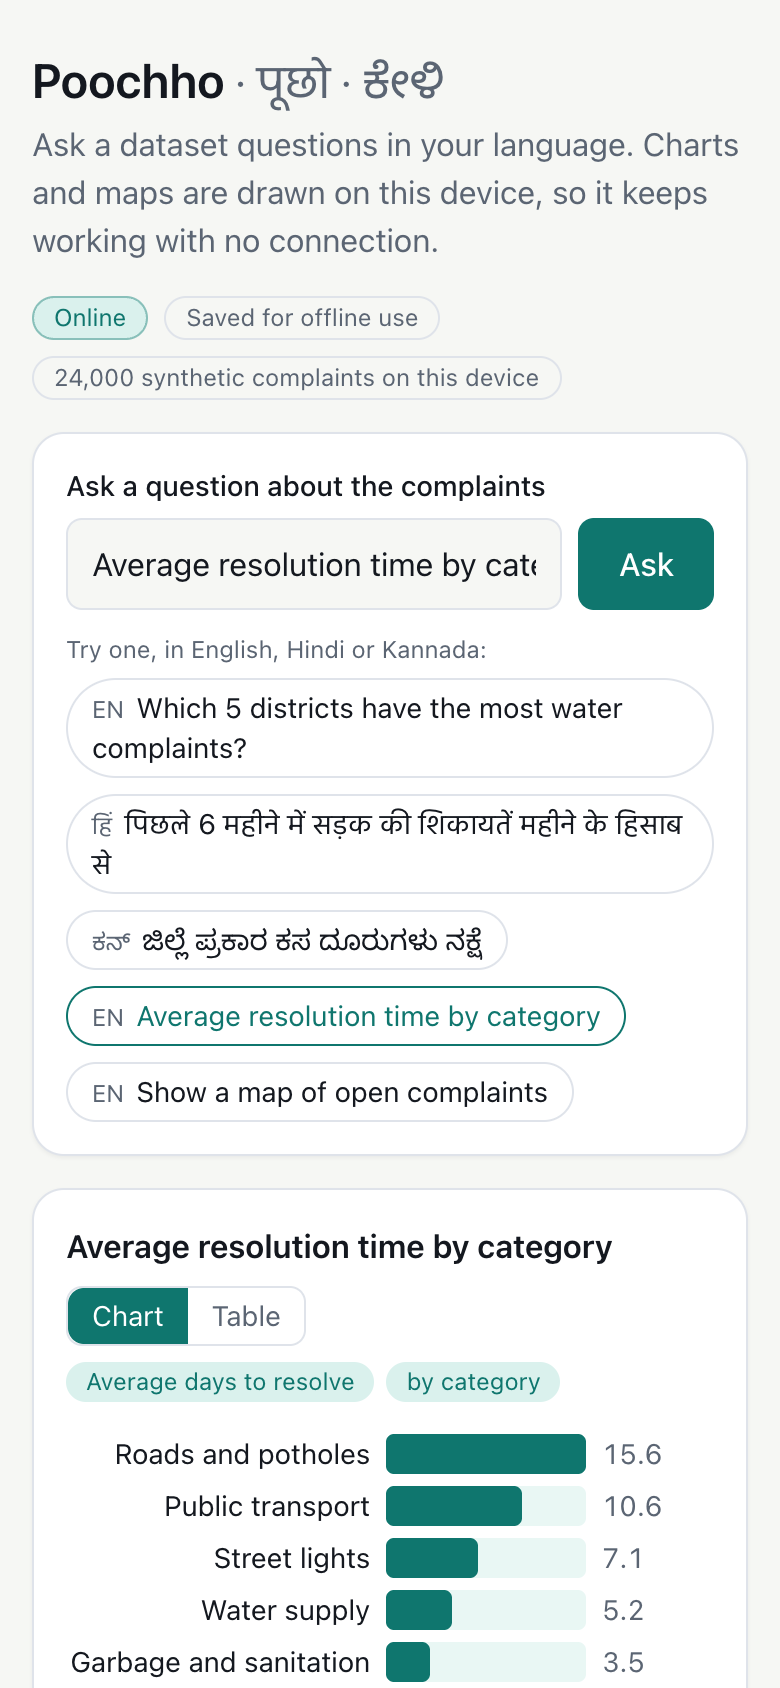
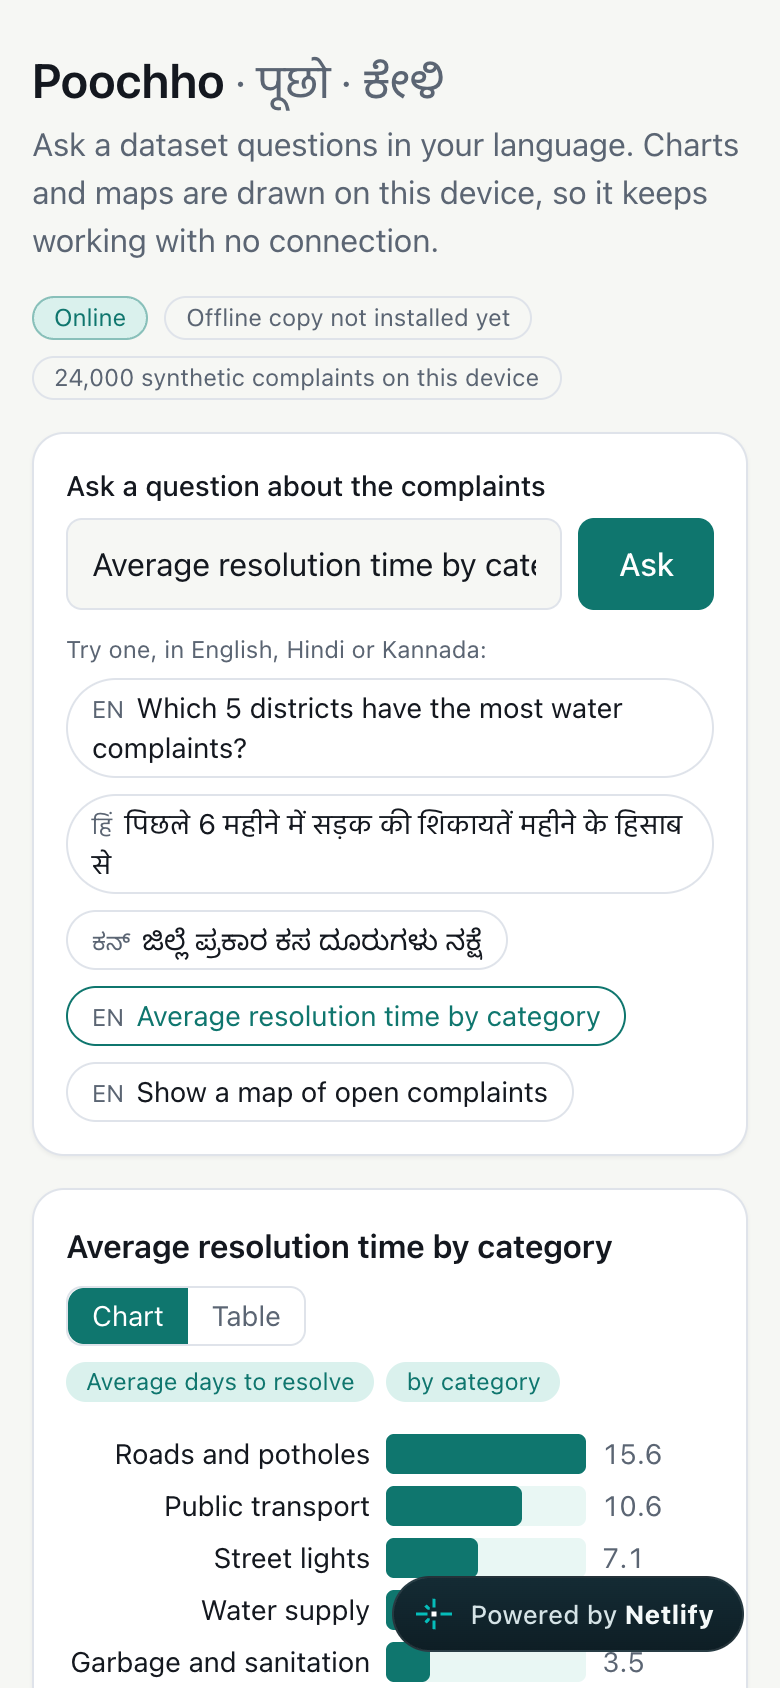
Serve manifest correctly, test the live site, report measured numbers
- netlify.toml: manifest content type, no-cache for the worker and shell
- e2e: ignore Netlify's injected script; can be pointed at the live site
- README: live link and numbers measured against the deployed site

Changed region(s): [[0.4923, 0.9242, 0.9538, 0.9858], [0.4615, 0.1848, 0.6462, 0.2156], [0.2462, 0.1848, 0.4308, 0.2156]]

diff --git a/README.md b/README.md
@@ -4,6 +4,10 @@ An offline-first PWA that answers questions about a dataset in English, Hindi or
 
 It is a proof of work for the kind of frontend described in Sarvam's "Frontend Engineer, Chanakya" posting: dashboards for enterprise users in constrained environments ("offline-first, low-bandwidth, limited hardware"), with a natural-language access layer and a geospatial view. It is not affiliated with Sarvam and the data is synthetic.
 
+## Live
+
+https://poochho-imamk8114.netlify.app
+
 ## Try it
 
 ```bash
@@ -12,6 +16,7 @@ npm run dev        # http://localhost:5188
 npm test           # 60 unit tests
 npm run build && npm run preview
 npm run e2e        # real-Chrome test of the offline behaviour (needs `preview` running)
+BASE_URL=https://poochho-imamk8114.netlify.app/ npm run e2e   # the same test against the live site
 ```
 
 Click any example. To use Sarvam, open Settings and paste an API key; it stays in the tab's session storage and is sent only to `api.sarvam.ai`.
@@ -39,13 +44,13 @@ question ──► saved plan on this device? ──yes──► run it
 
 ## Measured
 
-From `npm run e2e`, in headless Chrome against the production build. Chrome's "slow 4G" preset is 150 ms round trip, 1.6 Mbit/s down.
+From `npm run e2e` in headless Chrome. Chrome's "slow 4G" preset is 150 ms round trip, 1.6 Mbit/s down. The first two rows are against the deployed site on Netlify (two runs); the local production build was faster, at about 0.75 s and 0.9 s.
 
 | What | Result |
 |---|---|
 | Initial download (JS + CSS, gzip) | 73 kB |
-| First load on throttled slow 4G: question box usable | about 0.75 s |
-| First load on throttled slow 4G: first chart drawn | about 0.9 s |
+| First load on throttled slow 4G: question box usable | 1.2 to 1.5 s |
+| First load on throttled slow 4G: first chart drawn | 1.4 to 1.7 s |
 | Reload with the network cut | app loads, question answered |
 | One query over 24,000 rows | under 1 ms |
 
